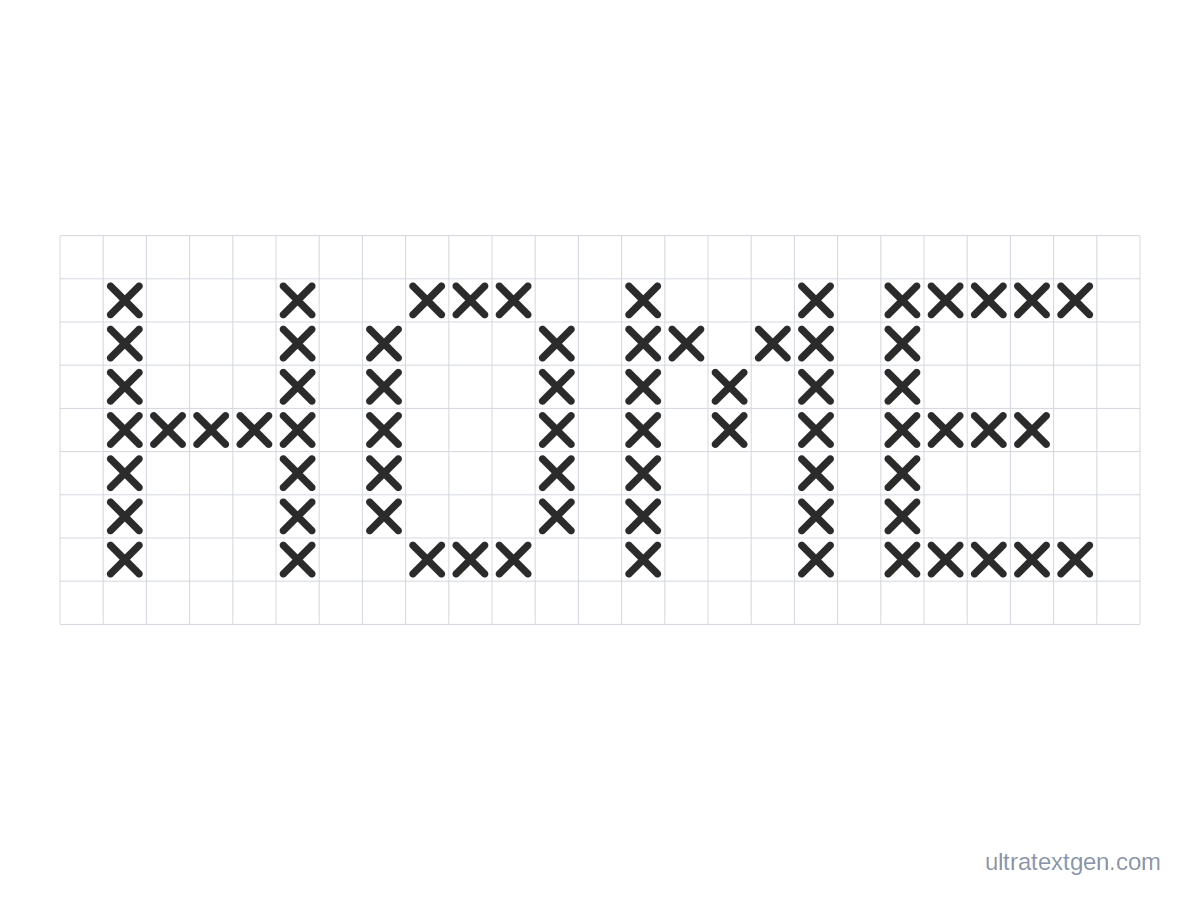
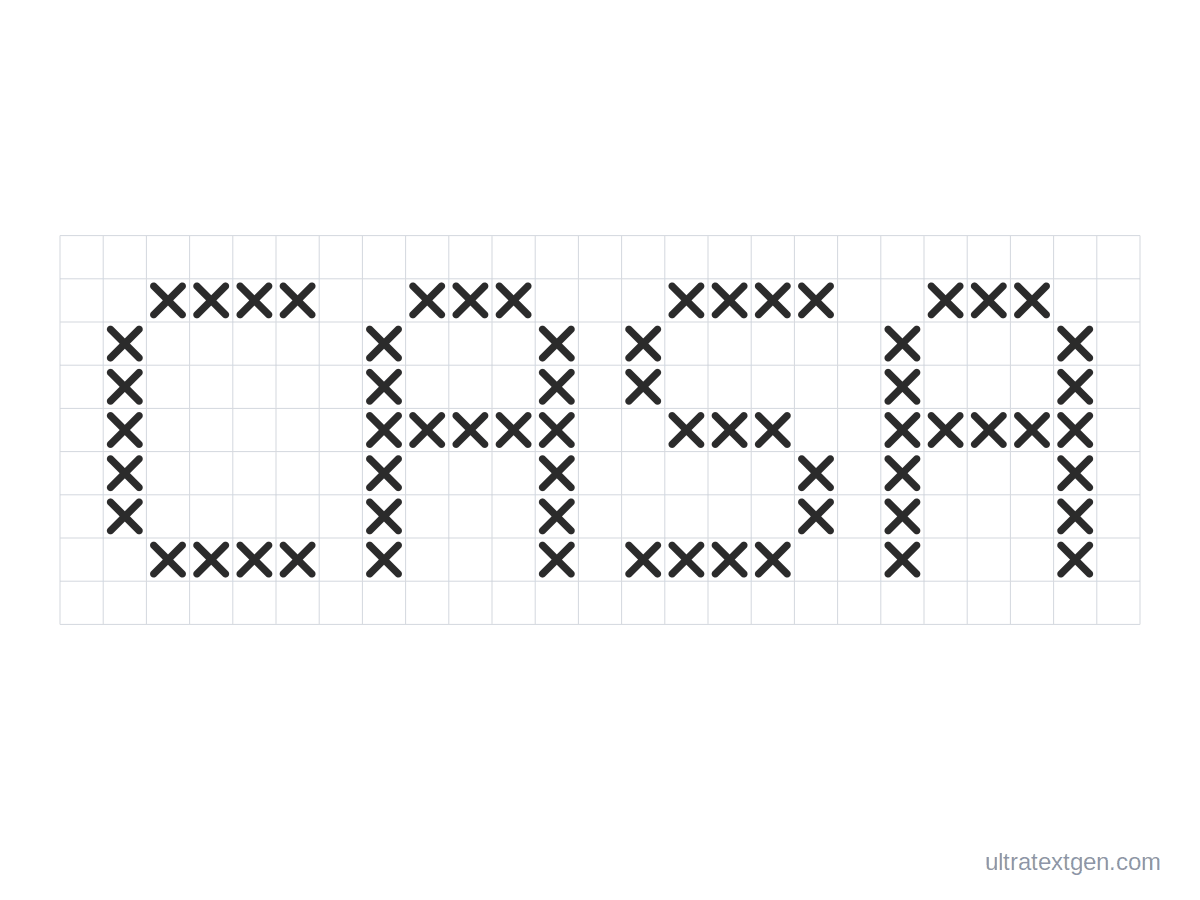
fix(printables): render each cross-stitch page's own word in its preview
r_cross_stitch hardcoded word = "HOME", so the indexable sheet preview on
every locale cross-stitch page showed an English word while the page itself
renders its own: fr MAISON, es CASA, id RUMAH. The preview contradicted the
chart directly below it.

Nothing is invented here. Each page already declares the word in its own
#cs-input value attribute, which is what its reader sees on load, so
parse_page picks it up into the existing `demo` field and the renderer uses
it the way every other renderer already uses page["demo"]. The EN alt text
follows the word through the table's existing {DEMO} placeholder; locale alt
text is H1-derived and unchanged.

A char with no glyph in crossStitchEngine's 37-glyph font would have rendered
as blank cells rather than an error, so the renderer now refuses instead. All
four words are fully covered today.

EN re-renders byte-identical, which is the control: HOME was only ever correct
on the page that actually says HOME.

Claude-Session: https://claude.ai/code/session_01VujAq6r96Nf7wei181Ua9f

diff --git a/scripts/generate-printables-previews.py b/scripts/generate-printables-previews.py
@@ -160,6 +160,9 @@ def parse_page(rel):
     lang = re.search(r'<html[^>]*\blang="([^"]+)"', h)
     chars = re.search(r"\bchars\s*:\s*\[([^\]]*)\]", cfg)
     designer = re.search(r"\bdesigner\s*:\s*\{[^}]*?\bdemo\s*:\s*\"([^\"]*)\"", cfg, re.S)
+    # The cross-stitch pages carry no *Demo key: their sample word is the
+    # value the reader actually sees in the chart input on load.
+    stitch_demo = re.search(r'<input\b(?=[^>]*\bid="cs-input")[^>]*\bvalue="([^"]*)"', h)
     script_font = re.search(r'scriptOptions\s*:\s*\[\s*\{[^}]*?\bfont\s*:\s*"([^"]*)"', cfg, re.S)
     if m:
         engine = "printables"
@@ -183,7 +186,8 @@ def parse_page(rel):
         "chars": [_js_str(c) for c in re.findall(r'"([^"]+)"', chars.group(1))] if chars else None,
         "glyphStyle": _cfg_str(cfg, "glyphStyle") or "",
         "demo": (_cfg_str(cfg, "nameDemo") or _cfg_str(cfg, "genDemo") or _cfg_str(cfg, "bannerDemo")
-                 or _cfg_str(cfg, "puzzleDemo") or (_js_str(designer.group(1)) if designer else None)),
+                 or _cfg_str(cfg, "puzzleDemo") or (_js_str(designer.group(1)) if designer else None)
+                 or (htmlmod.unescape(stitch_demo.group(1)).strip() or None if stitch_demo else None)),
         "initialChar": _cfg_str(cfg, "initialChar"),
     }
 
@@ -267,7 +271,7 @@ EN_ALT = {
         "landing": "Printable banner sample: pennant flags spelling {demo}, one letter per flag",
     },
     "cross-stitch-letters": {
-        "landing": "Cross-stitch letter chart sample: the word HOME as X stitches on a 5 by 7 grid",
+        "landing": "Cross-stitch letter chart sample: the word {DEMO} as X stitches on a 5 by 7 grid",
     },
     "monogram-maker": {
         "landing": "Monogram sample: the initials J, S and L in an elegant serif, small, large, small",
@@ -1021,7 +1025,13 @@ def _stitch_font():
 
 def r_cross_stitch(page, fd):
     glyphs = _stitch_font()
-    word = "HOME"
+    word = (page["demo"] or "HOME").upper()
+    # A char with no glyph would render as blank cells rather than as an
+    # error, so refuse instead of shipping a chart with holes in it.
+    missing = sorted({c for c in word if c not in glyphs})
+    if missing:
+        raise SystemExit(f"cross-stitch font has no glyph for {missing} "
+                         f"in {word!r} ({page['rel']})")
     cols = len(word) * 6 - 1 + 2
     rows = 7 + 2
     cell = min((W - 120) / cols, (H - 160) / rows)
